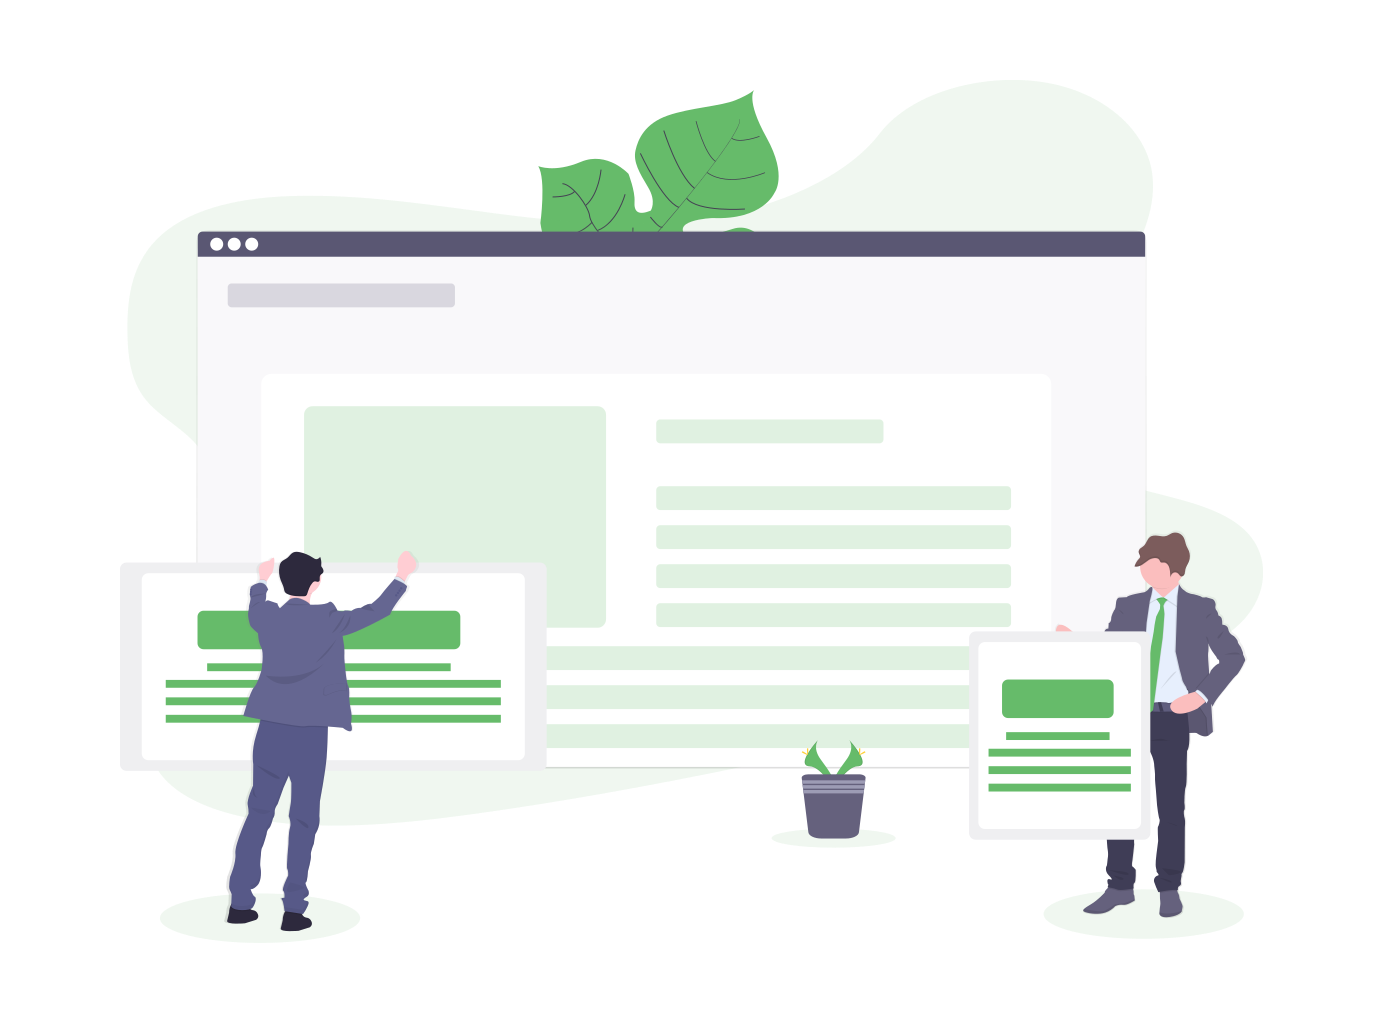
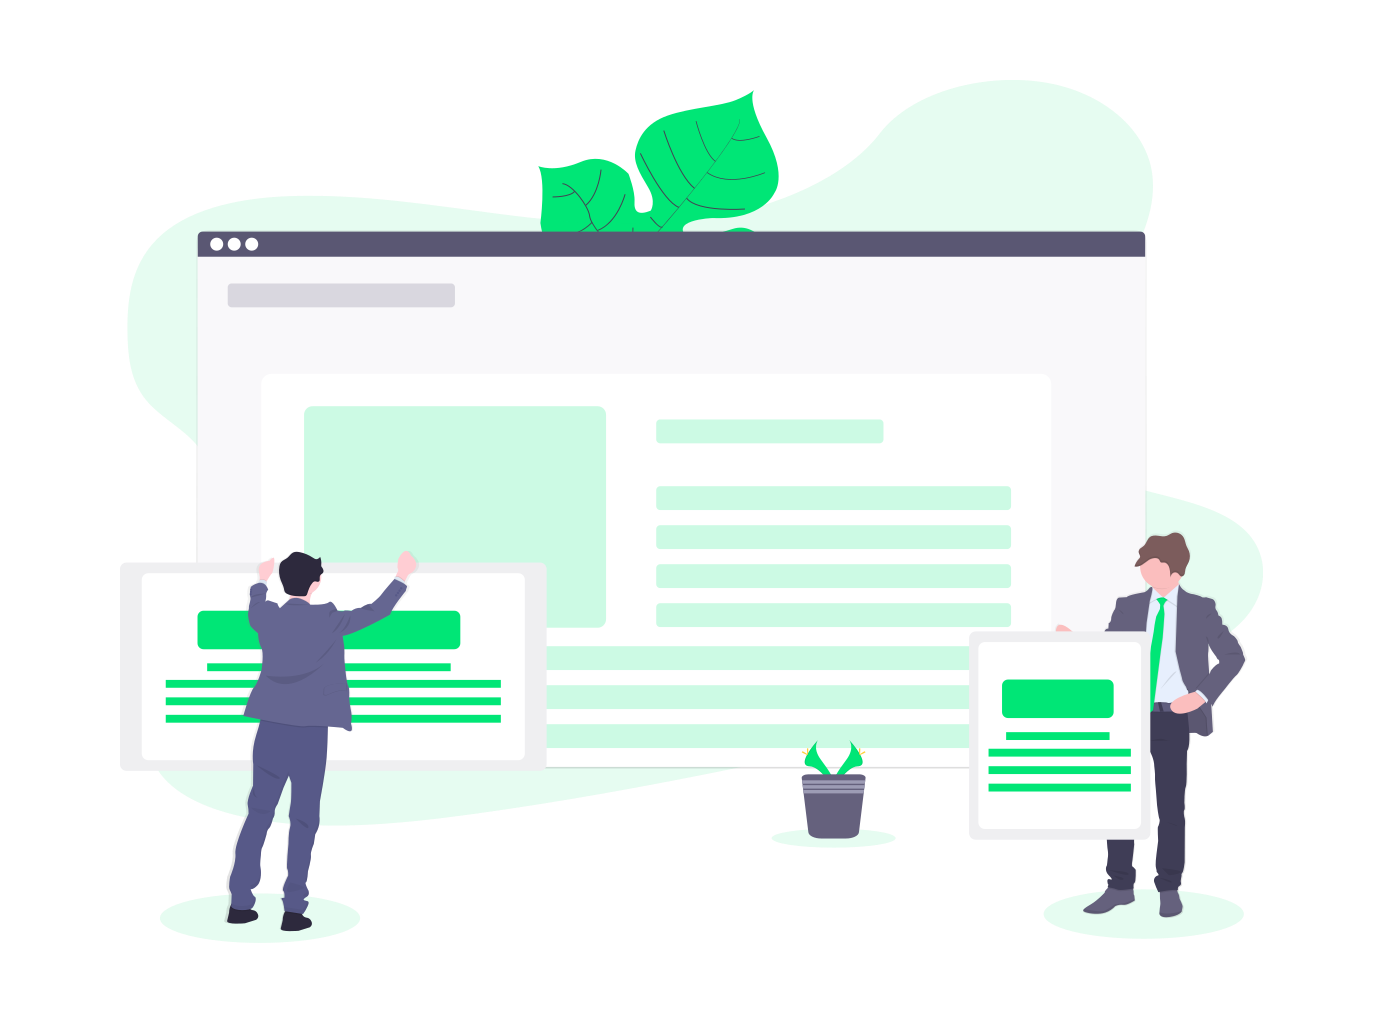
add pages albums

diff --git a/js/albums.js b/js/albums.js
@@ -1,0 +1,29 @@
+function showAlbums() {
+    const albums = {
+        'tahun': [
+            '1990', '1991', '1994', '1995', '1997', '2000', '2004', '2009', '2012', '2014', '2016', '2020'
+        ],
+        'judul': [
+            '39/Smooth', 'Kerplunk', 'Dookie', 'Insomniac', 'nimrod', 'Warning:', 'American Idiot', '21st Century Breakdown', '¡Uno! ¡DOs! ¡Tre!', 'Demolicious', 'Revolution Radio', 'Father of All'
+        ]
+    };
+    if (Object.keys(albums).length === 0 && albums.constructor === Object) {
+        //Jika object albums tidak memiliki data
+        let albumList = document.querySelector('#albums-list');
+        let row = document.createElement('tr');
+
+        row.innerHTML = "<td>No Data Available</td>";
+        row.innerHTML += "<td>No Data Available</td>";
+        albumList.appendChild(row);
+    } else {
+        for (let index = 0; index < albums['tahun'].length; index++) {
+            //menampilkan data albums ke table
+            let albumList = document.querySelector('#albums-list');
+            let row = document.createElement('tr');
+
+            row.innerHTML = "<td>" + albums['tahun'][index] + "</td>";
+            row.innerHTML += "<td>" + albums['judul'][index] + "</td>";
+            albumList.appendChild(row);
+        }
+    }
+}

diff --git a/index.html b/index.html
@@ -14,7 +14,7 @@
 <body onload="activeNav();activeNavMobile()">
 
     <!-- Navigasi -->
-    <nav class="green darken-1" role="navigation">
+    <nav class="green accent-4" role="navigation">
         <div class="nav-wrapper container">
             <a href="" class="brand-logo" id="logo-container">Greenday</a>
             <a href="" class="sidenav-trigger" data-target="nav-mobile">☰</a>
@@ -34,7 +34,7 @@
 
 
     <!-- Awal Footer -->
-    <footer class="page-footer green darken-1">
+    <footer class="page-footer green accent-4">
         <div class="container center-align">
             &copy; 2020 Belajar Progressive Web Apps
         </div>
@@ -44,6 +44,7 @@
 
     <script src="js/materialize.min.js"></script>
     <script src="js/nav.js"></script>
+    <script src="js/albums.js"></script>
     <script>
         // REGISTER SERVICE WORKER
         if ("serviceWorker" in navigator) {
@@ -61,6 +62,7 @@
             console.log("ServiceWorker belum didukung browser ini.");
         }
     </script>
+
 </body>
 
 </html>

diff --git a/pages/albums.html b/pages/albums.html
@@ -1,1 +1,19 @@
-<h2>Berisikan Album Album</h2>
+<div class="row">
+    <div class="col s12 m12 l6 xl6">
+        <img onload="showAlbums();" src="/img/icon-albums.png" class="img-albums">
+    </div>
+    <div class="col s12 m12 l6 xl6">
+        <table id="albums" class="highlight centered responsive-table">
+            <thead class="green accent-3">
+                <tr>
+                    <th>Tahun Rilis</th>
+                    <th>Judul Album</th>
+                </tr>
+            </thead>
+
+            <tbody id="albums-list">
+            </tbody>
+        </table>
+
+    </div>
+</div>

diff --git a/pages/home.html b/pages/home.html
@@ -5,6 +5,6 @@
     <div class="col s12 m12 l6 xl6">
         <h2>Selamat datang!</h2>
         <p>Lorem ipsum dolor sit amet consectetur adipisicing elit. Cum illum earum reprehenderit, molestias iste at rerum non sequi voluptates illo deserunt voluptatem aliquam. Hic atque, ex fuga modi dolorum similique.</p>
-        <a class="waves-effect waves-light btn green lighten-1" onclick="loadProfile()" href="#profile">Go To Profile</a>
+        <a class="waves-effect waves-light btn green accent-3" onclick="loadProfile()" href="#profile">Go To Profile</a>
     </div>
 </div>

diff --git a/css/style.css b/css/style.css
@@ -7,7 +7,7 @@ p {
     font-family: 'Quicksand', sans-serif;
 }
 
-.img-home {
+.img-home, .img-albums {
     padding-top: 10px;
     max-width: 100%;
     max-height: 100%;
@@ -45,6 +45,14 @@ ul.sidenav {
     font-family: 'Quicksand', sans-serif;
 }
 
-a {
+a, th, tr {
     font-family: 'Quicksand', sans-serif;
+}
+
+th {
+    color: white;
+}
+
+#albums {
+    margin-top: 20px;
 }

diff --git a/service-worker.js b/service-worker.js
@@ -1,4 +1,4 @@
-const CACHE_NAME = "firstpwa-v1";
+const CACHE_NAME = "firstpwa-v2";
 var urlsToCache = [
     "/",
     "/nav.html",
@@ -11,6 +11,7 @@ var urlsToCache = [
     "/css/style.css",
     "/js/materialize.min.js",
     "/js/nav.js",
+    "/js/albums.js",
     "/icon.png",
     "/img/icon-home.png"
 ];
